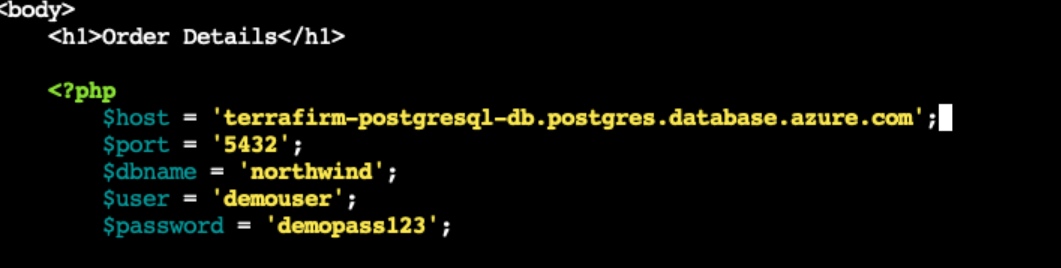
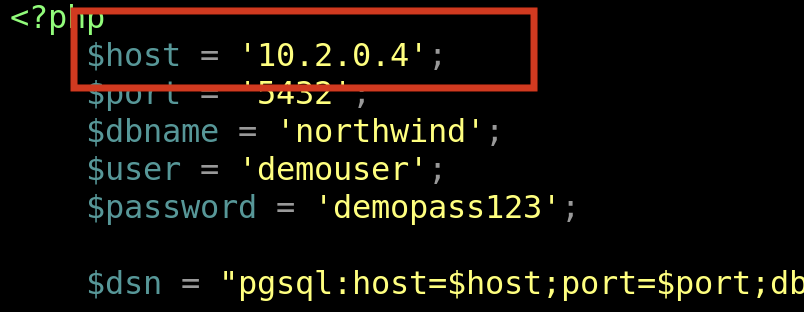
Private endpoint connection for web app

Changed region(s): [[0.0, 0.0, 0.9017, 0.7761], [0.0933, 0.806, 1.0, 0.9851], [0.5286, 0.5672, 0.5597, 0.597]]

diff --git a/docs/02_migrate_web_app/02_01.md b/docs/02_migrate_web_app/02_01.md
@@ -20,20 +20,67 @@ In this task, you will connect to the migrated database in the Azure Database fo
 <details markdown="block">
 <summary>Expand this section to view the solution</summary>
 
-1. In the **Azure Portal**, navigate to the **Resource Group** that you created for this lab.  
+1. In the **Azure Portal**, navigate to the **Resource Group** that you created for this lab, then select the Azure Database for PostgreSQL Flexible Server you just created.
 
-1. On the left menu pane, under **Settings** select **Databases**.
+1. Go to Networking in the left hand pane or search for `Networking` in search
 
-    ![Databases link is hihghlighted.](../../resources/images/lab02_01_PostgreSQLFlexibleServerDBs.png "Databases link")
+    ![Networking is hihghlighted.](../../resources/images/lab02_01_PostgreSQLFlexibleServer_Network.png "Networking")
 
-1. Choose **connect** on the `northwind` database which will bring up cloud shell
-    ![Connecting to the database in Azure Portal](../../resources/images/lab02_01_ConnectToDatabase.png "Connect Link to Database")
+1. Click on the Private Endpoin link
 
-1. Enter the password for the **Admin** login you created in the previous task.
+     ![Click on the private endpoint link](../../resources/images/lab02_01_PostgreSQLFlexibleServer_PrivateEndpoint_1.png "Private EndPoint")
 
-    ![Connected to the northwind database in Cloud Shell](../../resources/images/lab02_01_ConnectedDatabaseCloudShell.png "Database connected")
+1. Click on DNS configuration or use search to find it
 
-1. You need to bring across the user and permissions for the web application to connect to the database. Which requires running a setup script in the migrated database. Run the script below:
+    ![Click on the DNS configuration option](../../resources/images/lab02_01_PostgreSQLFlexibleServer_PrivateEndpoint_2.png "DNS configuration")
+
+1. This will bring up the IP address that the private endpoint for PostgreSQL Flexible Server is using. You will use this IP address to connect via the bastion session.
+
+    ![Obtaining the IP address for connecting to the Private Endpoint](../../resources/images/lab02_01_PostgreSQLFlexibleServer_PrivateEndpoint_3.png "IP Address")
+
+1. In the **Azure Portal**, navigate to the **Resource Group** that you created for this lab, then select the **On-premises APP VM** named similar to `terrafirm-onprem-app-vm`.
+
+    ![The Resource group with on-premises workload VM highlighted.](../../resources/images/lab02_02_VirtualMachine.png "Azure resource group")
+
+1. On the **Virtual Machine** blade, either use the Search function in the left hand menu or click on Bastion. We will use a bastion host as the method to connect to our VMs as this is a more secure method.
+
+    ![The Virtual machine blade searching for "Bastion".](../../resources/images/lab00_02_BastionSearch.png "Search for Bastion")
+
+    ![The Virtual machine blade with Bastion selected.](../../resources/images/lab00_02_Bastion.png "Bastion")
+
+1. Within the **Bastion** page, enter the following:
+    1. **Authentication Type**    VM Password
+    1. **Username**               demouser
+    1. **VM Password**            <`the secure password you created when you created the VMs in Task01`>
+
+     ![The Bastion Connection page.](../../resources/images/lab00_02_BastionConnection.png "Setup for Bastion")
+
+    >**Note**: You may need to allow popups if they are blocked in your browser.
+
+1. When connectioned to the VM via the Bastion host you will get a screen like this:
+
+    ![Copnnection via Bastion host.](../../resources/images/lab00_02_BastionConnected.png "Bastion Connected")
+
+1. Once connected via Bastion, run the following command to install the git utility on the server by using the clipboard within the session:
+
+    ![Clipboard within the Bastion session.](../../resources/images/lab00_02_BastionClipboard.png "Bastion Clipboard")
+
+1. Click the arrows which will expand the window
+
+     ![Clipboard within the Bastion session.](../../resources/images/lab00_02_UsingBastionClipboard_1.png "Bastion Clipboard")
+
+1. Within the clipboard windows enter the following (replacing **10.2.0.4** with the IP address of your private endpoint)
+
+    ``` bash
+    psql -h 10.2.0.4 -p 5432 -U pgadmin northwind
+    
+    ```
+
+    Enter the password for the **PGAdmin** login you created in the previous task.
+
+    ![Connecting to the Flexible Server within the Bastion session.](../../resources/images/lab02_01_PostgreSQLFlexibleServer_Connection_Bastion.png "Bastion Clipboard")
+
+1. You need to bring across the user and permissions for the web application to connect to the database. Which requires running a setup script in the migrated database. Run the script below in the bastion clipboard:
 
     ``` sql
     CREATE USER demouser WITH PASSWORD 'demopass123';
@@ -42,6 +89,12 @@ In this task, you will connect to the migrated database in the Azure Database fo
     ```
 
     ![Running the SQL script when connected to the database using Cloud Shell](../../resources/images/lab02_01_RunDatabaseScript.png "SQL script run against database")
+
+1. You can quit out of the psql client session by typing the following:
+
+    ```sql
+    \q
+    ```
 
 At this point, things are ready for you to configure the web application to use the migrated database.
 

diff --git a/docs/02_migrate_web_app/02_02.md b/docs/02_migrate_web_app/02_02.md
@@ -59,11 +59,11 @@ In this task, you will connect to the on-premises APP VM that was created with t
 
     ![orders.php file is open in editor.](../../resources/images/lab02_02_OrdersPhPFile.png "orders.php file")
 
-1. Within the `orders.php` file, set the following values for the **database connection details** section to configure it for Azure Database for PostgreSQL Flexible Server.
+1. Within the `orders.php` file, set the following values for the **database connection details** section to configure it for the Private Endpoint for your Azure Database for PostgreSQL Flexible Server.
 
-    ![Copy the Servername from the Azure Database for PostgreSQL Flexible Server](../../resources/images/lab02_02_AzureDatabaseServerName.png "Azure Database for PostgreSQL Flexible Server name")
+    ![Obtaining the IP address for connecting to the Private Endpoint](../../resources/images/lab02_01_PostgreSQLFlexibleServer_PrivateEndpoint_3.png "IP Address")
 
-    1. **host**: Enter the **Server name** for the **Azure Database for PostgreSQL Flexible Server** instance that was previously copied.
+    1. **host**: Enter the **IPAddress** for the **Azure Database for PostgreSQL Flexible Server** instance that was previously copied.
 
     ![orders.php file with database connection details set.](../../resources/images/lab02_02_OrdersPhPWithMigratedServer.png "orders.php file")
 
@@ -79,7 +79,7 @@ In this task, you will connect to the on-premises APP VM that was created with t
 
     ![Web application is displayed in web browser.](../../resources/images/lab02_02_WebApplicationMigrated.png "Web application")
 
-1. Note that the database connection IP address has changed from the IP address which was the on-premises PostgreSQL database (typically 10.0.0.4) to the newly migrated database hosted in Azure Database for PostgreSQL Flexible Server.
+1. Note that the database connection IP address has changed from the IP address which was the on-premises PostgreSQL database (typically 10.0.0.4) to the newly migrated database hosted in Azure Database for PostgreSQL Flexible Server. Note that the address might be in IPv6 notation.
 
     ![Validation of the Web application connected to the migrated PostgreSQL database](../../resources/images/lab02_02_DatabaseConnectionIPAddress.png "IP address of migrated dataabse")
 

diff --git a/docs/01_migrate_postgresql_db/01_02.md b/docs/01_migrate_postgresql_db/01_02.md
@@ -33,9 +33,11 @@ In this task, you will setup a migration project and configure the Source and Ta
     1. Migration name - `Migration-northwind`.
     1. Source server type - On-premise Server.
     1. Migration option - Validate and Migrate.
-    1. Select **Next: Connect to source >**.
+    1. Select **Next: Select Runtime Server >**.
 
     ![Setup database migration for Azure Database for PostgreSQL Flexible Server.](../../resources/images/lab01_02_MigrationSetup.png "Offline database migration")
+
+1. We will **not** use a Runtime Server so just select **Next: Connect to source >**.
 
 1. On the **Connect to source** tab, enter each field as follows:
     1. Server name - The IP address of your server that you built using the template.
